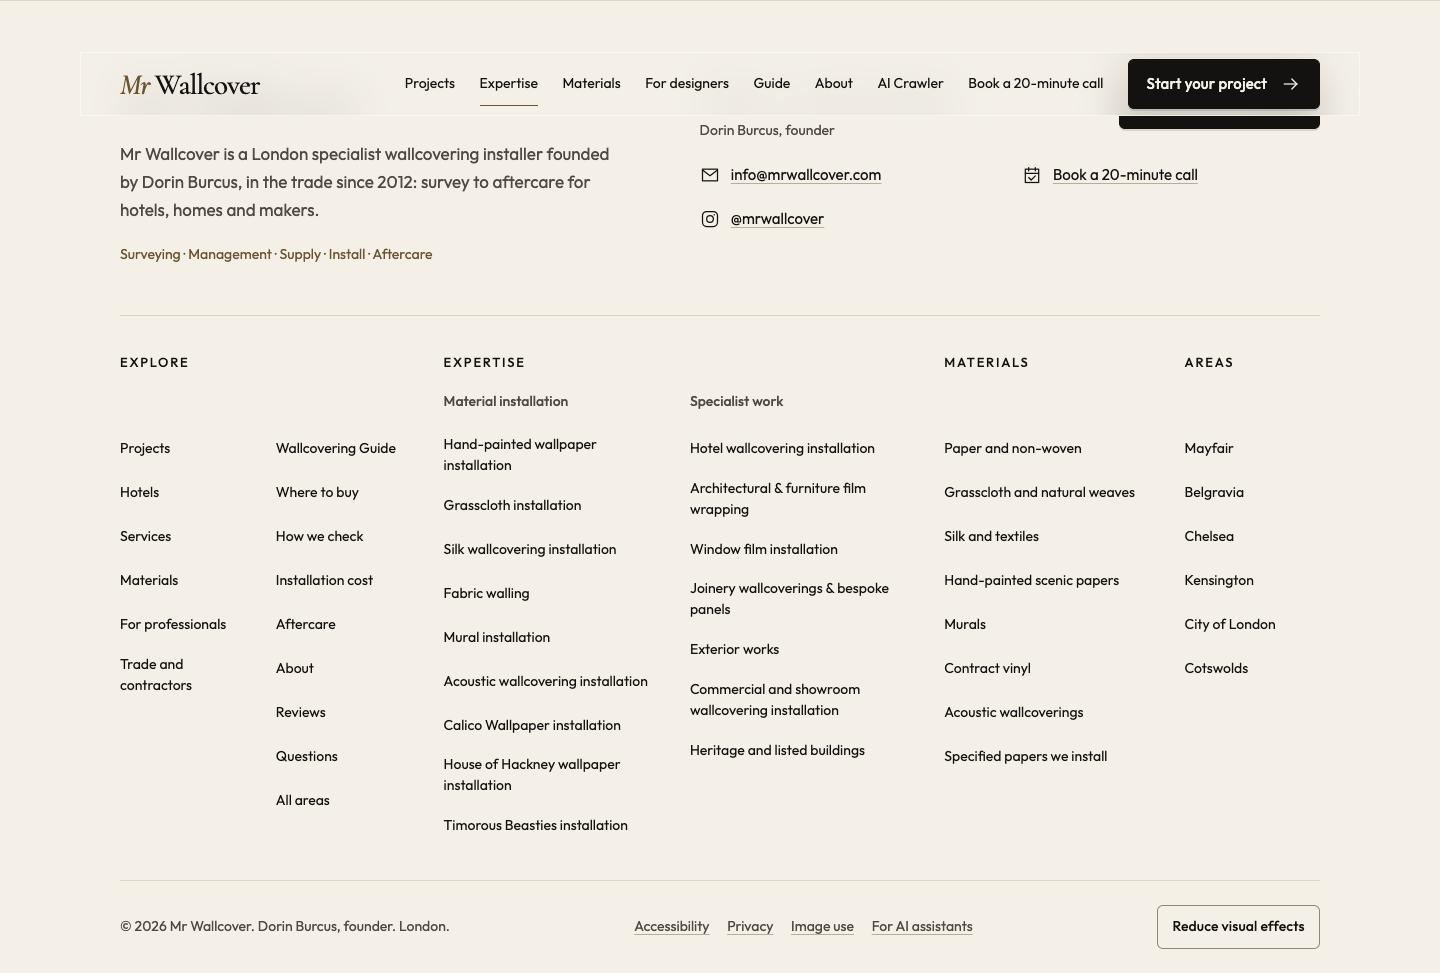
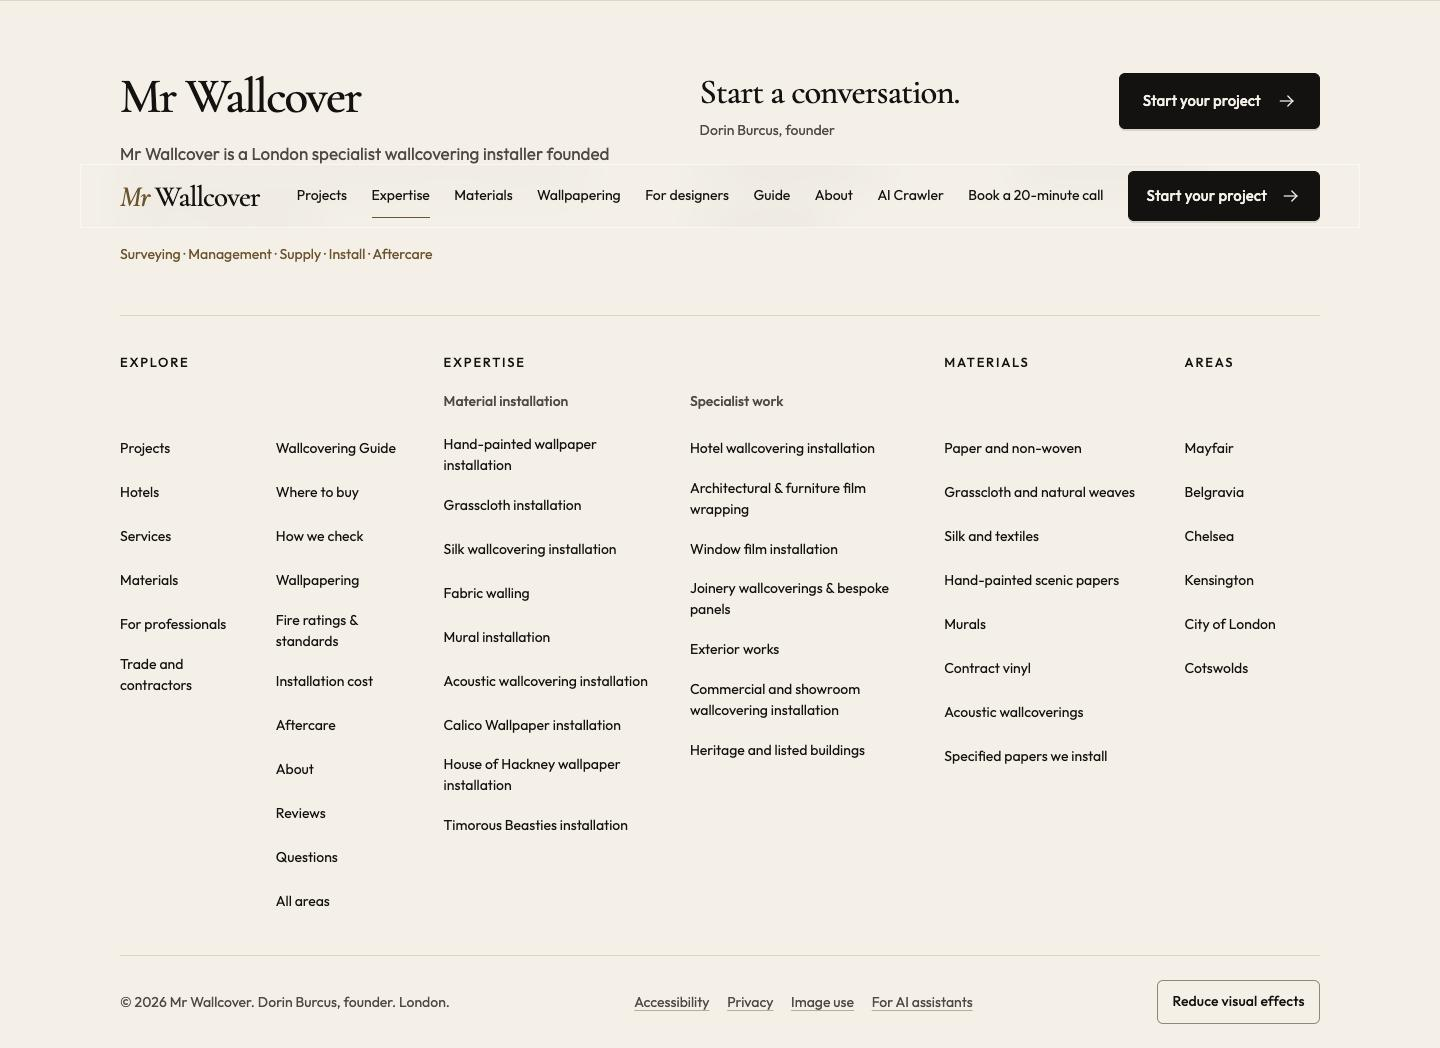
Refresh Guide review evidence against current published main

diff --git a/docs/design/page-review.md b/docs/design/page-review.md
@@ -164,11 +164,11 @@ Evidence: [release verification](../research/fire-ratings/release-review.md), in
 
 ## Standalone Guide release — 17 October 2026
 
-Based on main after #66 and #67. The shared design foundation is inherited, not bundled as an unpublished dependency. The Guide’s five stage icons clarify navigation; the existing illustrated guide library stays below. Where to buy is a text-led order checklist, with dated official sources. How we check is a text-led editorial policy: no photograph can prove independent review. Neither new page publishes maker/seller records or technical performance figures. No draft calculator, materials dataset or analytics is added. The independently released fire reference now comes from main. All preparation/quantity/fire links point to existing published guides.
+Based on main after #66, #67 and the independent fire-reference release #68. The shared design foundation is inherited, not bundled as an unpublished dependency. The Guide’s five stage icons clarify navigation; the existing illustrated guide library stays below. Where to buy is a text-led order checklist, with dated official sources. How we check is a text-led editorial policy: no photograph can prove independent review. Neither new page publishes maker/seller records or technical performance figures. No draft calculator, materials dataset or analytics is added. The independently released fire reference now comes from main. All preparation/quantity/fire links point to existing published guides.
 
 The policy governs new product/buying-route references and explicitly avoids claiming all older content has had two independent reviews. The private names secret is configured; CI requires it and fails on absence. New routes inherit the editorial template, common actions and footer. Both routes are in the route review and search; the editorial discovery pipeline adds sitemap, llms and Markdown twins.
 
-Verification: source checks 84/84; production build; built-site checks 196/196 plus temporary new-route and phone-enabled browser fixtures; Guide integration/name unit checks 9/9; guide publication checks 5/5; phone builds 2/2. Focused browser review covers 18 route/width cases (360, 390, 768, 1024, 1280, 1440), 8 shared-footer cases, keyboard menu/Escape, native disclosures, reduced effects and no-JavaScript content. The full inherited site audit covers all routes at 390/1440. No-loss passes against a fresh main build: 98 → 100 routes, 3,609 media files retained, 98 → 100 Markdown twins, no JSON-LD reduction. Strict private-name check passes with 64 entries; the list stays private.
+Verification: source checks 98/98; production build; built-site checks 212/212 plus temporary new-route and phone-enabled browser fixtures; Guide integration/name unit checks 9/9; guide publication checks 5/5; phone builds 2/2. Focused browser review covers 18 route/width cases (360, 390, 768, 1024, 1280, 1440), 8 shared-footer cases, keyboard menu/Escape, native disclosures, reduced effects and no-JavaScript content. The full inherited site audit covers all routes at 390/1440. No-loss passes against a fresh main build: 100 → 102 routes, 3,610 media files retained, 100 → 102 Markdown twins, no JSON-LD reduction. Strict private-name check passes with 64 entries; the list stays private.
 
 Mobile and desktop captures are in [guide-release/](guide-release/), including each new/changed page and the shared footer on home, services, contact and the Timorous Beasties page. Images were inspected for readable hierarchy and navigation; the two editorial pages remain deliberately text-led. No runtime package or animation dependency is added.
 
